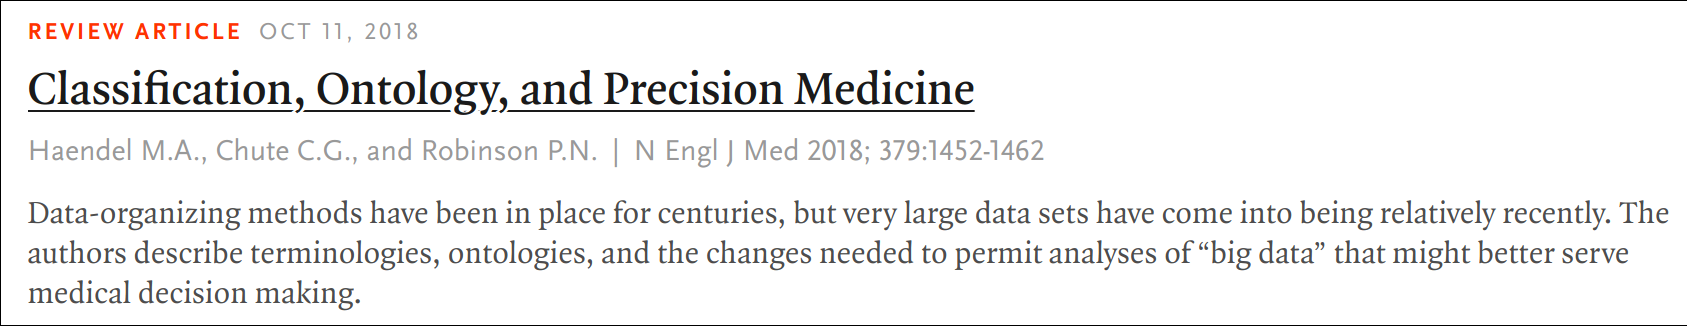
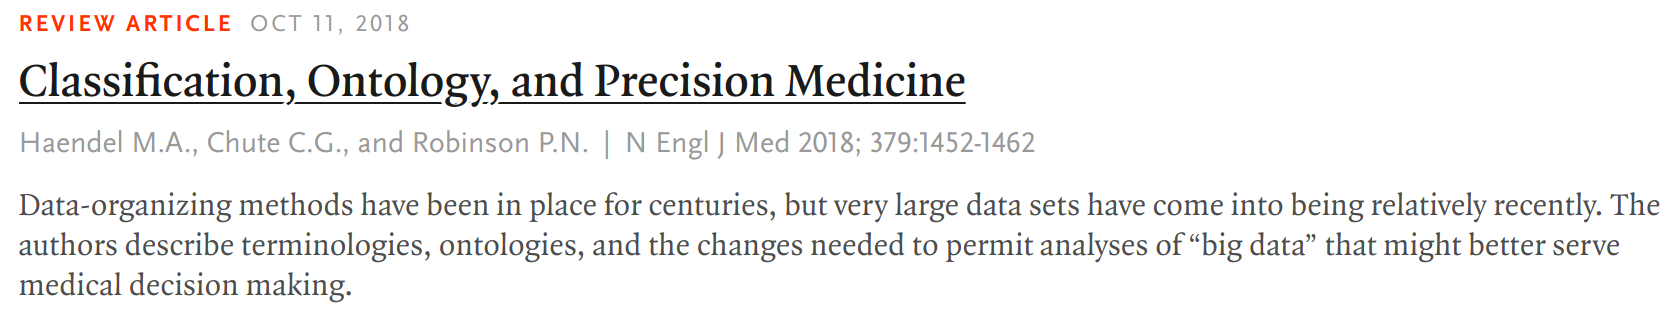
cropping img

diff --git a/index.html b/index.html
@@ -151,7 +151,7 @@ computational phenotype analysis, as well as various algorithms from the fields 
 <h2>Ontologies and Precision Medicine</h2>
 <p>Much of our research centers on the use of ontology-driven algorithms for precision medicine. The following review provides a good overview of this area.</p>
 <div id="images">
-  <a href="https://www.ncbi.nlm.nih.gov/pubmed/30304648"><img class="fblogo" border="0" src="images/nejmreview.png" width="400" title=""  alt="Ontology review"/></a>
+  <a href="https://www.ncbi.nlm.nih.gov/pubmed/30304648"><img class="fblogo" border="0" src="images/nejmreview.png" width="770" title=""  alt="Ontology review"/></a>
 </div>
   
 <!-- See the following listings for details.</p>
